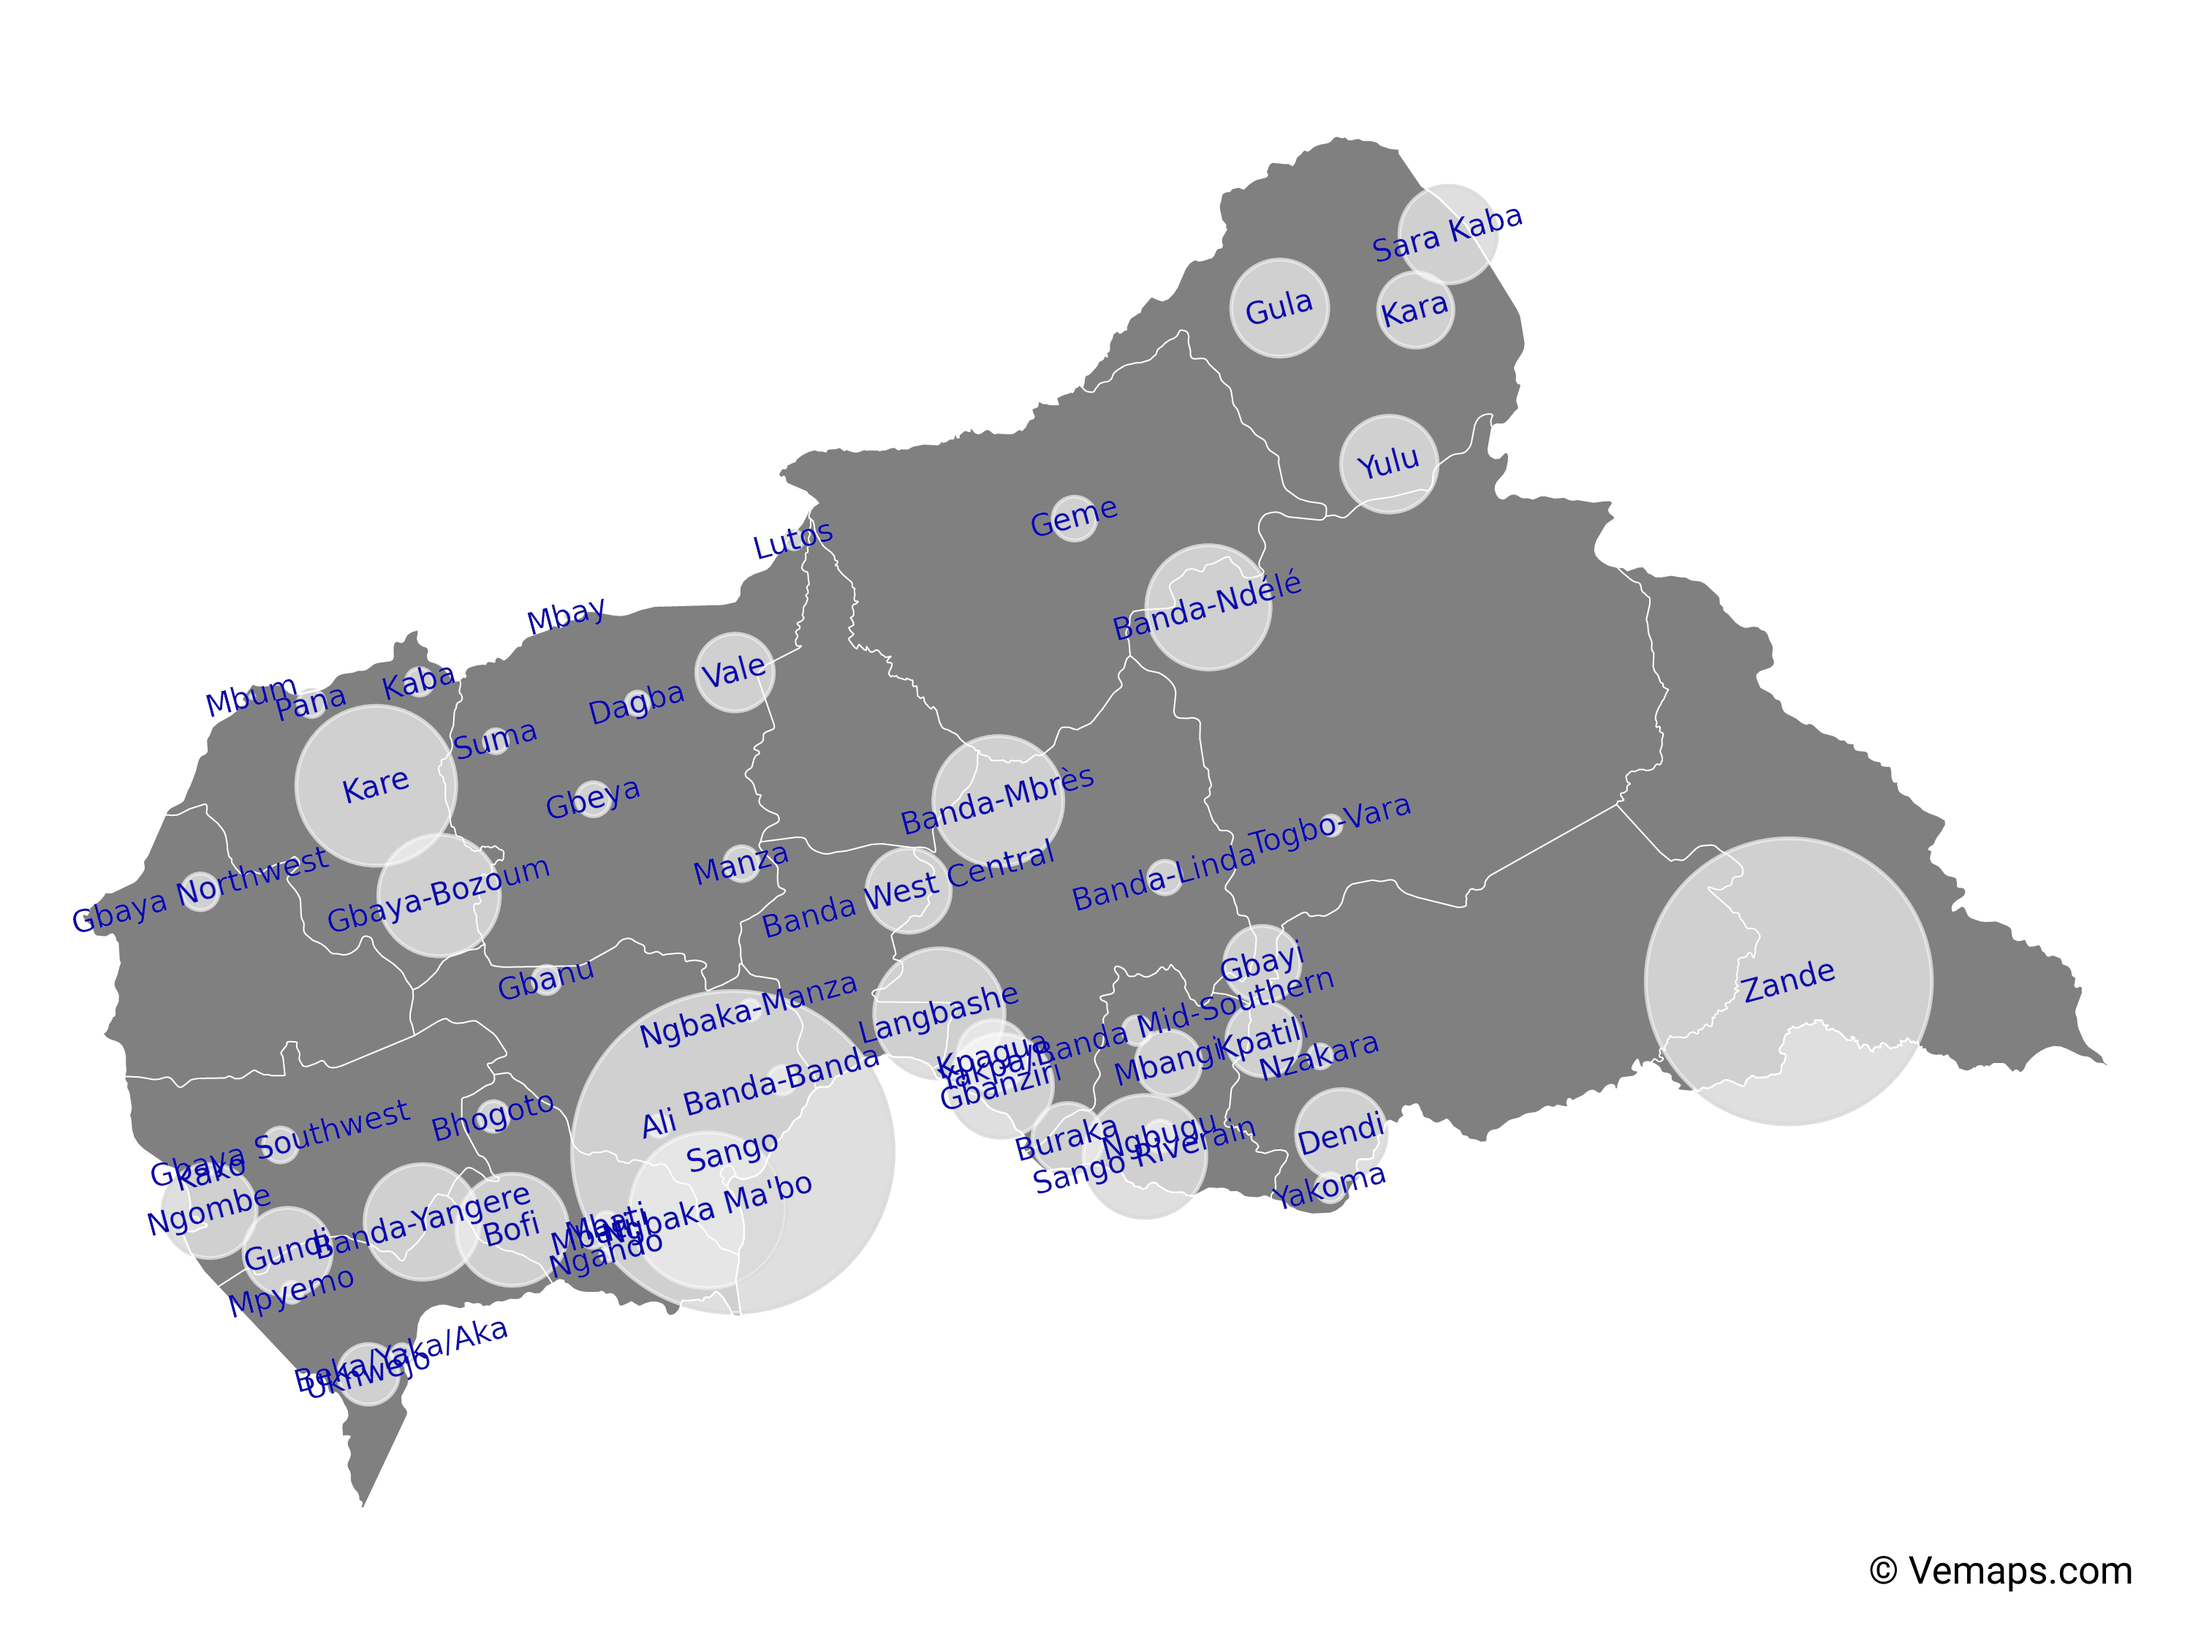
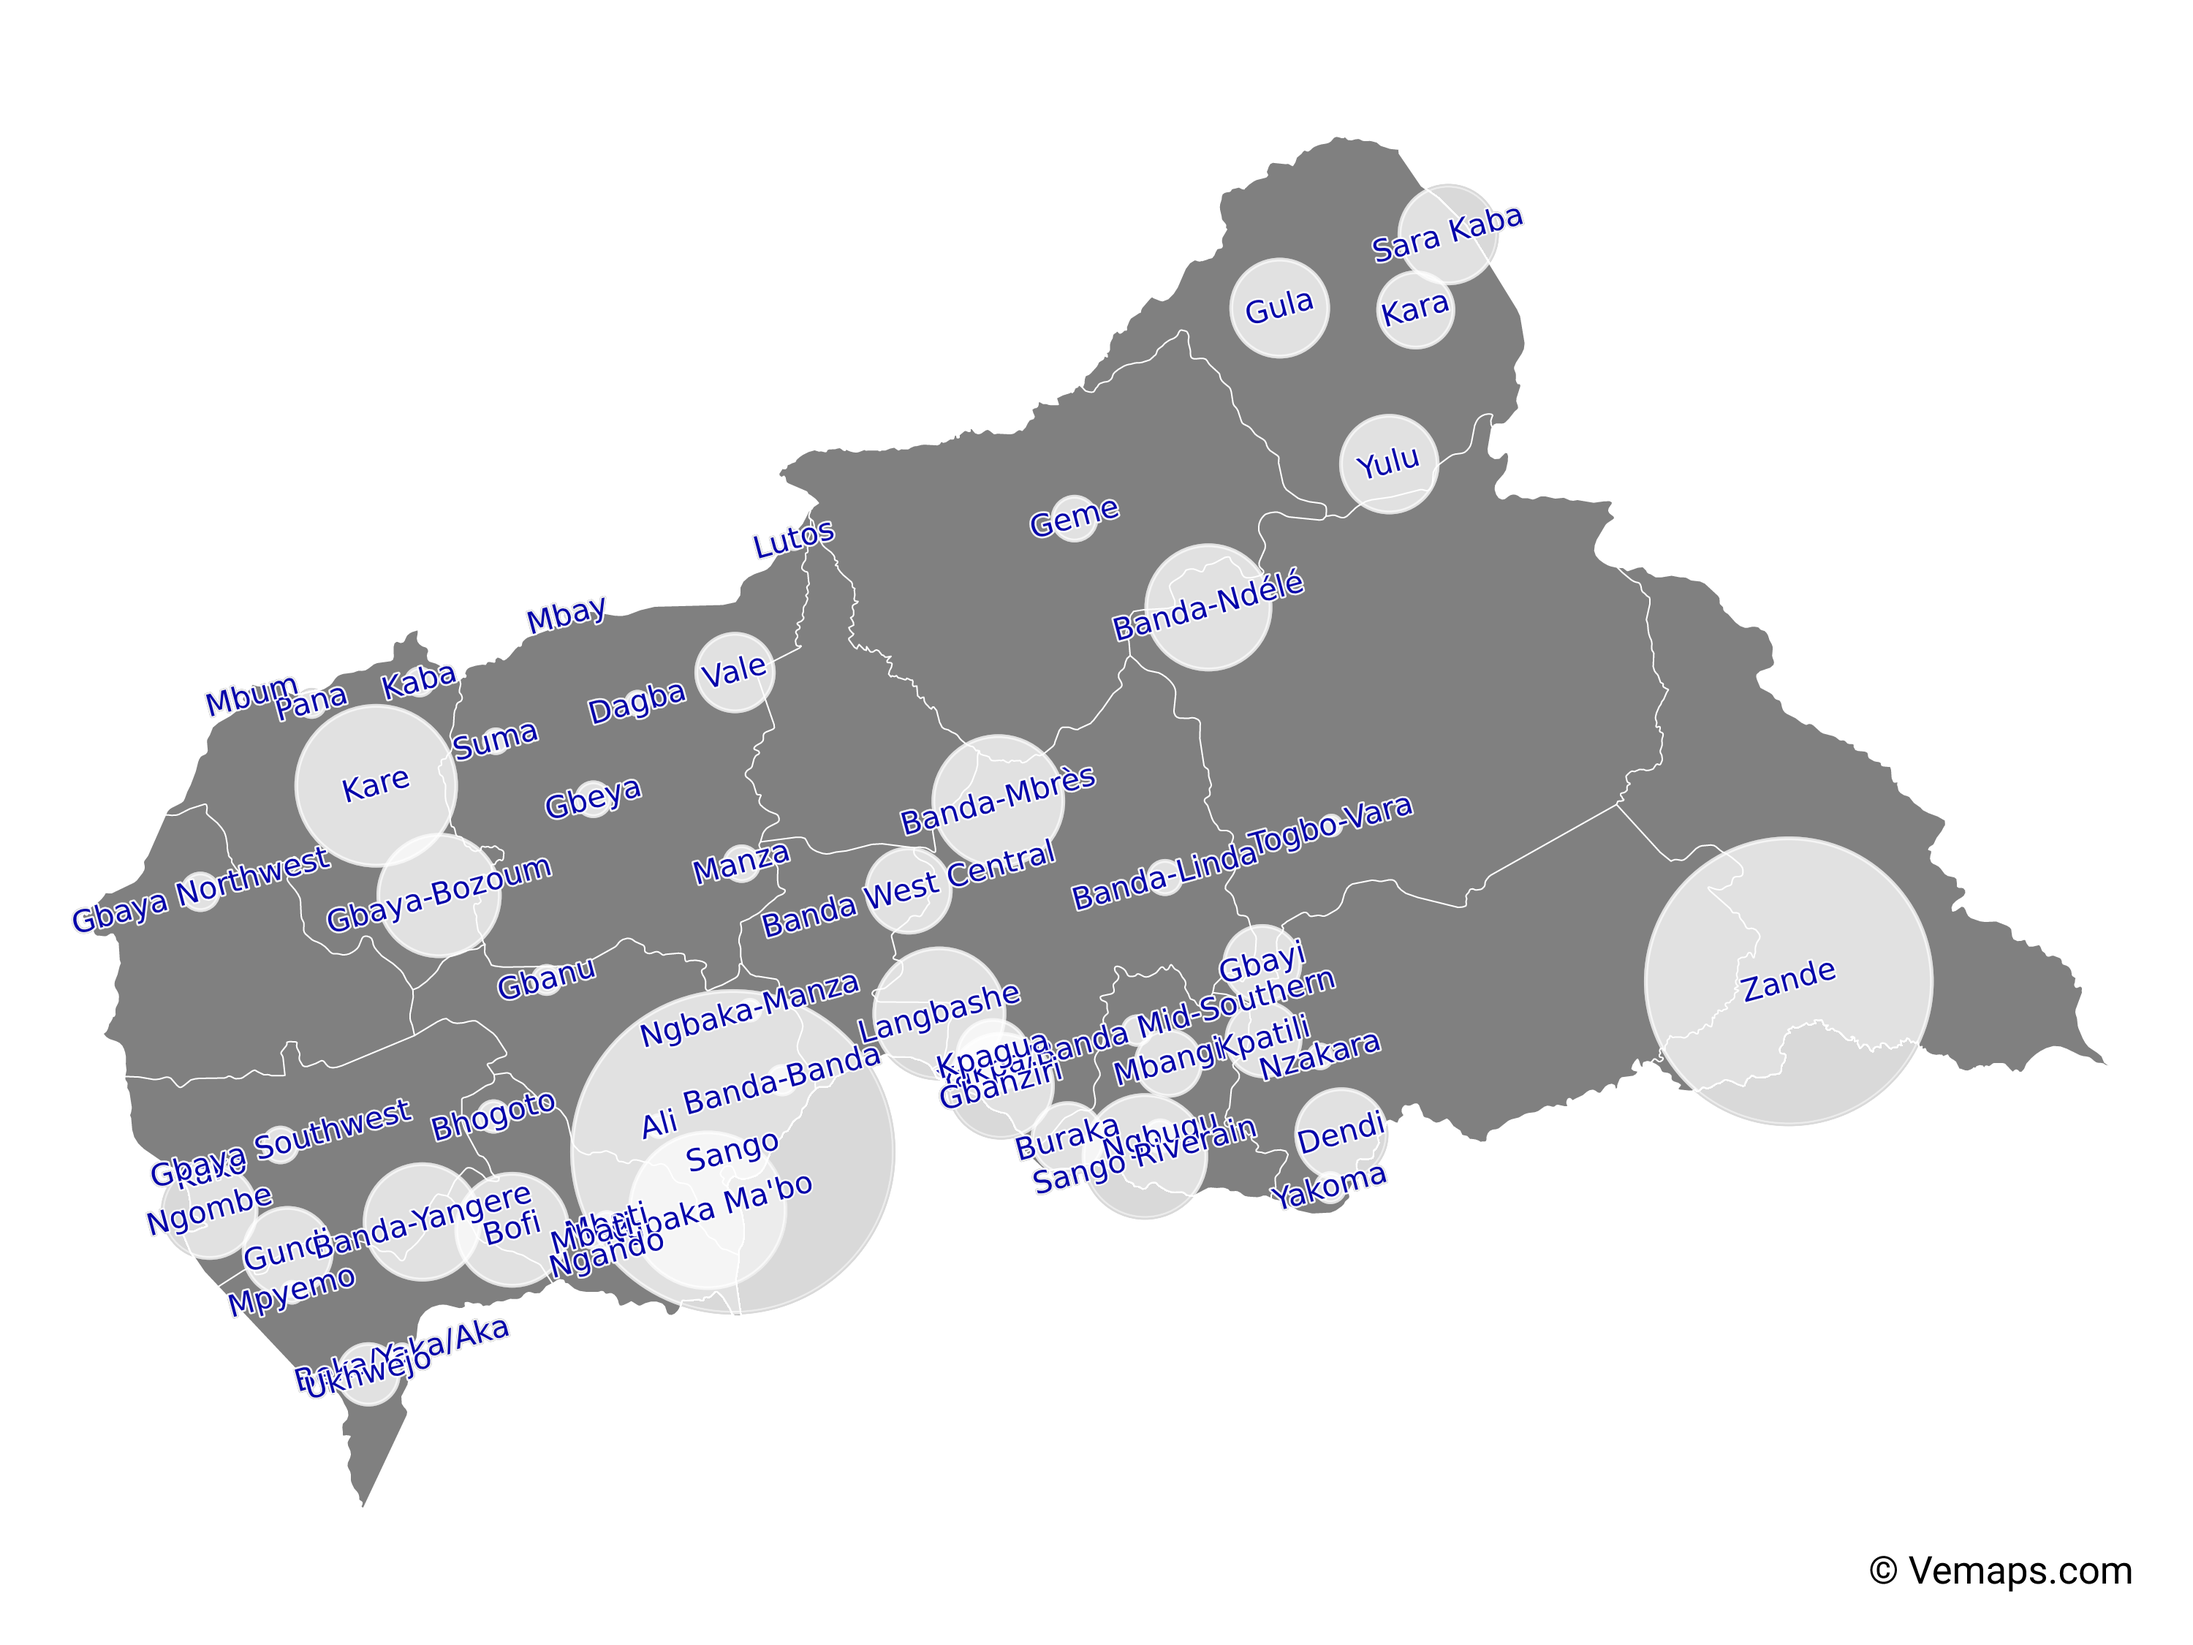
fix: add annotation text outlines for better visibility

diff --git a/mapper/layers.py b/mapper/layers.py
@@ -1,5 +1,6 @@
 import matplotlib.pyplot as plt
 import shutil
+from highlight_text import ax_text
 from PIL import Image
 from . import __config__
 from .data import get_cag_lgs_info_csv
@@ -47,6 +48,36 @@ def setup_plot():
     return fig, ax
 
 
+def add_annotations(names, x, y, position='center'):
+    if position == 'offset':
+        ha = 'left'
+        va = 'bottom'
+        textalign = 'left'
+    else:
+        ha = 'center'
+        va = 'center'
+        textalign = 'center'
+
+    for i, name in enumerate(names):
+        ax_text(
+            x=x[i],
+            y=y[i],
+            s=f"<{name}>",
+            fontsize=8,
+            color=__config__.colors.text,
+            rotation=__config__.geometry.text_rotation,
+            highlight_textprops=[
+                {
+                    'path_effects': __config__.text_effect,
+                    'color': __config__.colors.text,
+                },
+            ],
+            ha=ha,
+            va=va,
+            textalign=textalign,
+        )
+
+
 def finish_and_save_plot(ax, outfile):
     # Adjust plot.
     ax.set(xlim=(14, 28), ylim=(2, 12), xticks=(), yticks=())
@@ -77,18 +108,7 @@ def create_location_layer(**kwargs):
 
     # Add data & labels (annotations).
     ax.scatter(x, y, s=sizes, facecolors=colors)
-    for i, name in enumerate(names):
-        ax.annotate(
-            name,
-            (x[i], y[i]),
-            fontsize=8,
-            color=__config__.colors.text,
-            rotation=__config__.geometry.text_rotation,
-            xytext=__config__.geometry.offset_location_text,
-            textcoords='offset points',
-            # horizontalalignment='center',
-            # verticalalignment='center',
-        )
+    add_annotations(names, x, y, position='offset')
 
     # Finish & save plot.
     finish_and_save_plot(ax, outfile)
@@ -116,16 +136,7 @@ def create_population_layer(**kwargs):
         facecolors=colors,
         alpha=__config__.geometry.dot_basic_alpha,
     )
-    for i, name in enumerate(names):
-        ax.annotate(
-            name,
-            (x[i], y[i]),
-            fontsize=8,
-            color=__config__.colors.text,
-            rotation=__config__.geometry.text_rotation,
-            horizontalalignment='center',
-            verticalalignment='center',
-        )
+    add_annotations(names, x, y, position='center')
 
     # Finish & save plot.
     finish_and_save_plot(ax, outfile)
@@ -153,16 +164,7 @@ def create_status_layer(**kwargs):
         facecolors=colors,
         alpha=__config__.geometry.dot_basic_alpha,
     )
-    for i, name in enumerate(names):
-        ax.annotate(
-            name,
-            (x[i], y[i]),
-            fontsize=8,
-            color=__config__.colors.text,
-            rotation=__config__.geometry.text_rotation,
-            horizontalalignment='center',
-            verticalalignment='center',
-        )
+    add_annotations(names, x, y, position='center')
 
     # Finish & save plot.
     finish_and_save_plot(ax, outfile)

diff --git a/mapper/maps.py b/mapper/maps.py
@@ -3,8 +3,15 @@ from .layers import create_layer
 from .layers import get_composite_image
 
 
+def get_outfile_name(full_filename):
+    if __config__.filename:
+        full_filename = f"{__config__.filename}.png"
+    return full_filename
+
+
 def create_location_map():
-    outfile = __config__.output_dir / 'car-language-locations-map.png'
+    filename = get_outfile_name('car-language-locations-map.png')
+    outfile = __config__.output_dir / filename
     images = []
     images.append(create_layer('base'))
     images.append(create_layer('locations'))
@@ -13,7 +20,8 @@ def create_location_map():
 
 
 def create_population_map():
-    outfile = __config__.output_dir / 'car-language-populations-map.png'
+    filename = get_outfile_name('car-language-populations-map.png')
+    outfile = __config__.output_dir / filename
     images = []
     images.append(create_layer('base'))
     images.append(create_layer('populations'))
@@ -22,7 +30,8 @@ def create_population_map():
 
 
 def create_project_status_map():
-    outfile = __config__.output_dir / 'car-language-project-status-map.png'
+    filename = get_outfile_name('car-language-project-status-map.png')
+    outfile = __config__.output_dir / filename
     images = []
     images.append(create_layer('base'))
     images.append(create_layer('project_status'))

diff --git a/mapper/config.py b/mapper/config.py
@@ -1,6 +1,11 @@
+import matplotlib.patheffects as path_effects
 from dataclasses import dataclass
 from dataclasses import field
 from pathlib import Path
+
+
+def define_path_effect(**kwargs):
+    return [path_effects.Stroke(**kwargs), path_effects.Normal()]
 
 
 @dataclass
@@ -18,7 +23,7 @@ class Colors:
 class Geometry:
     """Keep track of geometry preferences."""
     dot_radius_factor: int = 5
-    dot_basic_alpha: float = 0.5
+    dot_basic_alpha: float = 0.7
     dot_basic_radius_factor: int = 10
     offset_base_image = (20, -100)  # used to align generated images with base image
     offset_location_text = (0, 5)  # text labels for dots on location map
@@ -29,9 +34,12 @@ class Geometry:
 class Config:
     """Store all config for the app."""
     colors: Colors = field(default_factory=Colors)
+    filename: str = None
     geometry: Geometry = field(default_factory=Geometry)
+    languages = 'all'
     plot_style: str = '_mpl-gallery'
     repo_dir: Path = Path(__file__).parents[1]
     data_dir: Path = repo_dir / 'data'
     output_dir: Path = repo_dir / 'output'
     base_layer_image: Path = output_dir / 'car-prefets.png'
+    text_effect = define_path_effect(linewidth=1, foreground='white', alpha=0.9)

diff --git a/mapper/__main__.py b/mapper/__main__.py
@@ -1,9 +1,14 @@
 import argparse
+from . import __config__
 from . import maps
 
 
 def main():
     parser = argparse.ArgumentParser(prog='mapper')
+    parser.add_argument(
+        '--languages', nargs='+',
+        help='limit languages shown on map',
+    )
     parser.add_argument(
         '--locations', action='store_true',
         help='create map showing language locations',
@@ -16,8 +21,16 @@ def main():
         '--project-status', action='store_true',
         help='create map showing translation project status by color',
     )
+    parser.add_argument(
+        'FILENAME', nargs='?',
+        help="specify output filename [optional]",
+    )
     args = parser.parse_args()
 
+    if args.FILENAME:
+        __config__.filename = args.FILENAME
+    if args.languages:
+        __config__.languages = args.languages
     if args.locations:
         maps.create_location_map()
     if args.population:

diff --git a/mapper/data.py b/mapper/data.py
@@ -14,10 +14,13 @@ def get_cag_lgs_info_csv():
         r = csv.reader(f)
         ct = 0
         for row in r:
+            iso = row[3].strip('(').strip(')')
             if ct == 0:
                 ct += 1
                 continue
             elif row[0].endswith('tip'):
+                continue
+            if isinstance(__config__.languages, list) and iso not in __config__.languages:
                 continue
             names.append(row[0])
             try:
